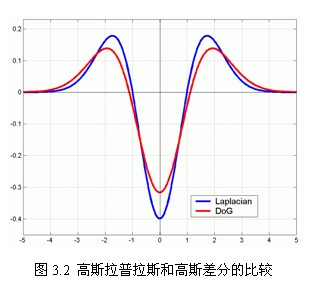
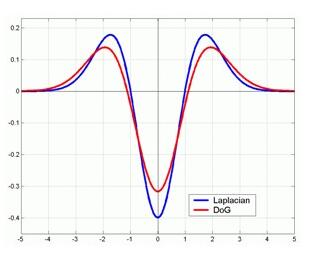
+

Changed region(s): [[0.0286, 0.0625, 0.9429, 1.0]]

diff --git a/source/_posts/image-feature-LoG-DoG.md b/source/_posts/image-feature-LoG-DoG.md
@@ -29,7 +29,8 @@ $$\dfrac{\partial G}{\partial \sigma} \approx \dfrac{G(x,y,k\sigma)-G(x,y,\sigma
 $$G(x,y,k\sigma)-G(x,y,\sigma) \approx (k-1)\sigma^2 \nabla ^2 G$$
 其中$k-1$是个常数，不影响极值点的检测，LoG算子和DoG算子的函数波形对比如下图所示，由于高斯差分的计算更加简单，因此可用DoG算子近似替代LoG算子
 
-<img src="https://ooo.0o0.ooo/2017/06/29/5954c1640caeb.jpg" alt="LoG-DoG.jpg" title="LoG与DoG的对比" />
+<img src="https://i.loli.net/2017/12/18/5a3741bdd1528.jpg" alt="LoG-DoG.jpg" title="LoG与DoG的对比" />
+
 ### 边缘检测(Edge Detection)和极值点检测(Blob Detection)
 &emsp;&emsp;LoG算子和DoG算子既可以用于检测图像边缘，也可用于检测局部极值点或极值区域，图像边缘在LoG算子下的响应情况如下图所示，二阶微分算子在边缘处为一过零点，而且过零点两边的最大值(正)和最小值(负)的差值较大。
 
